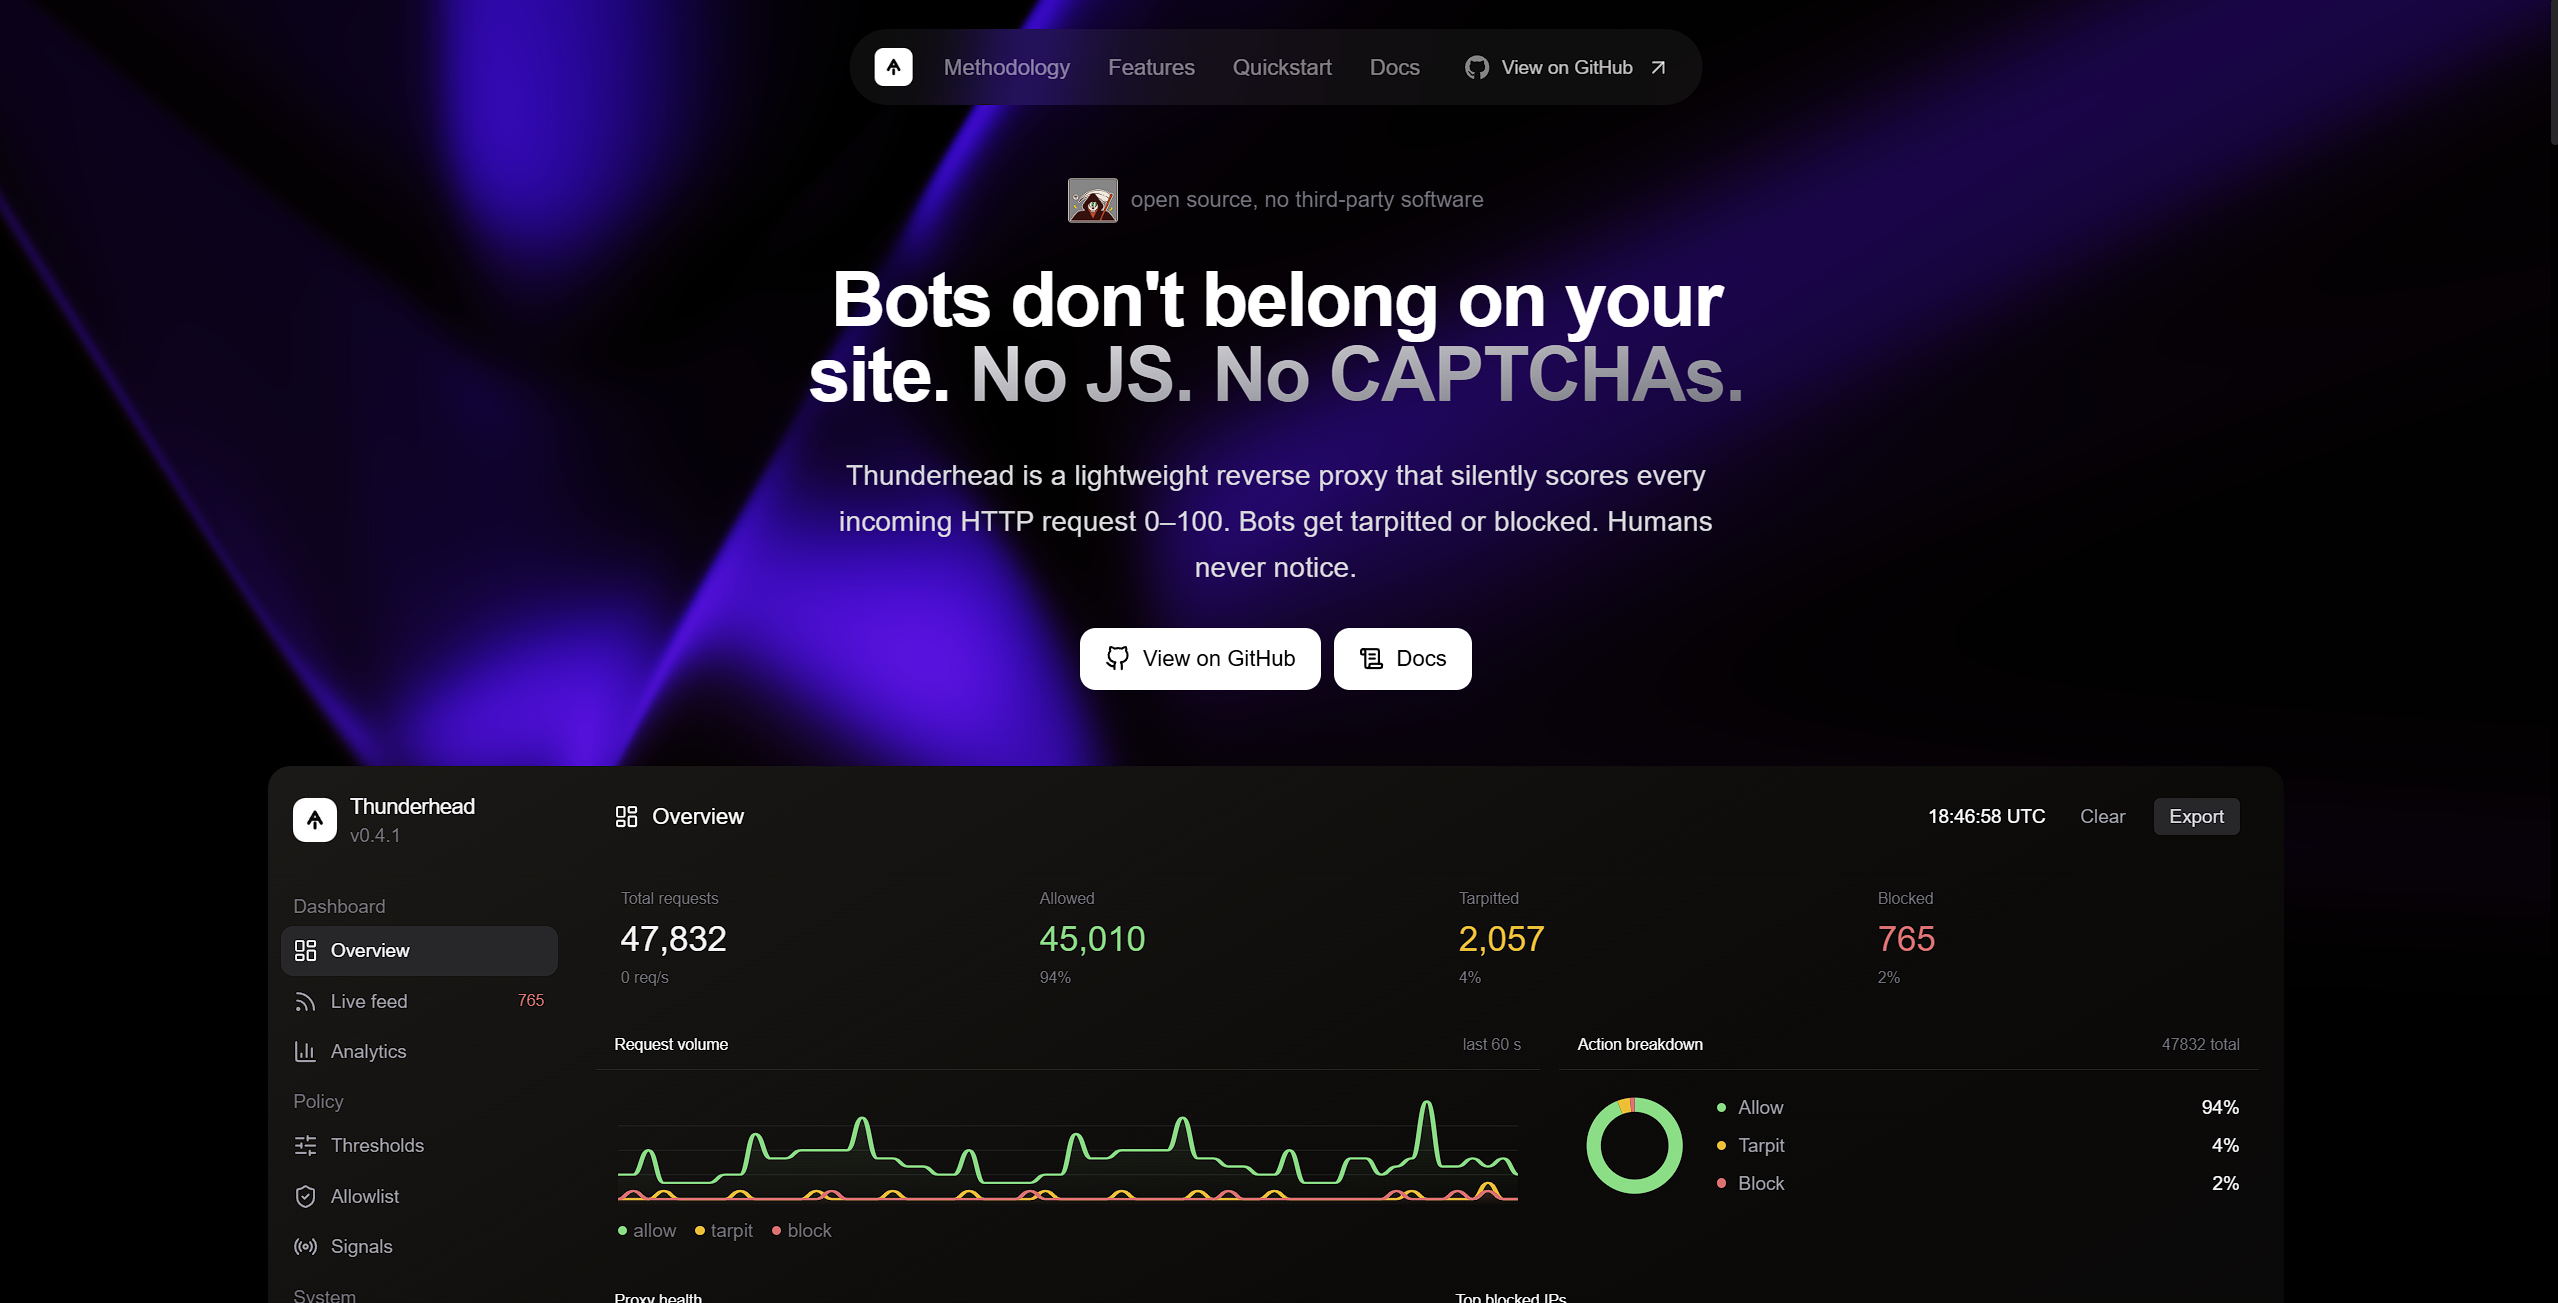
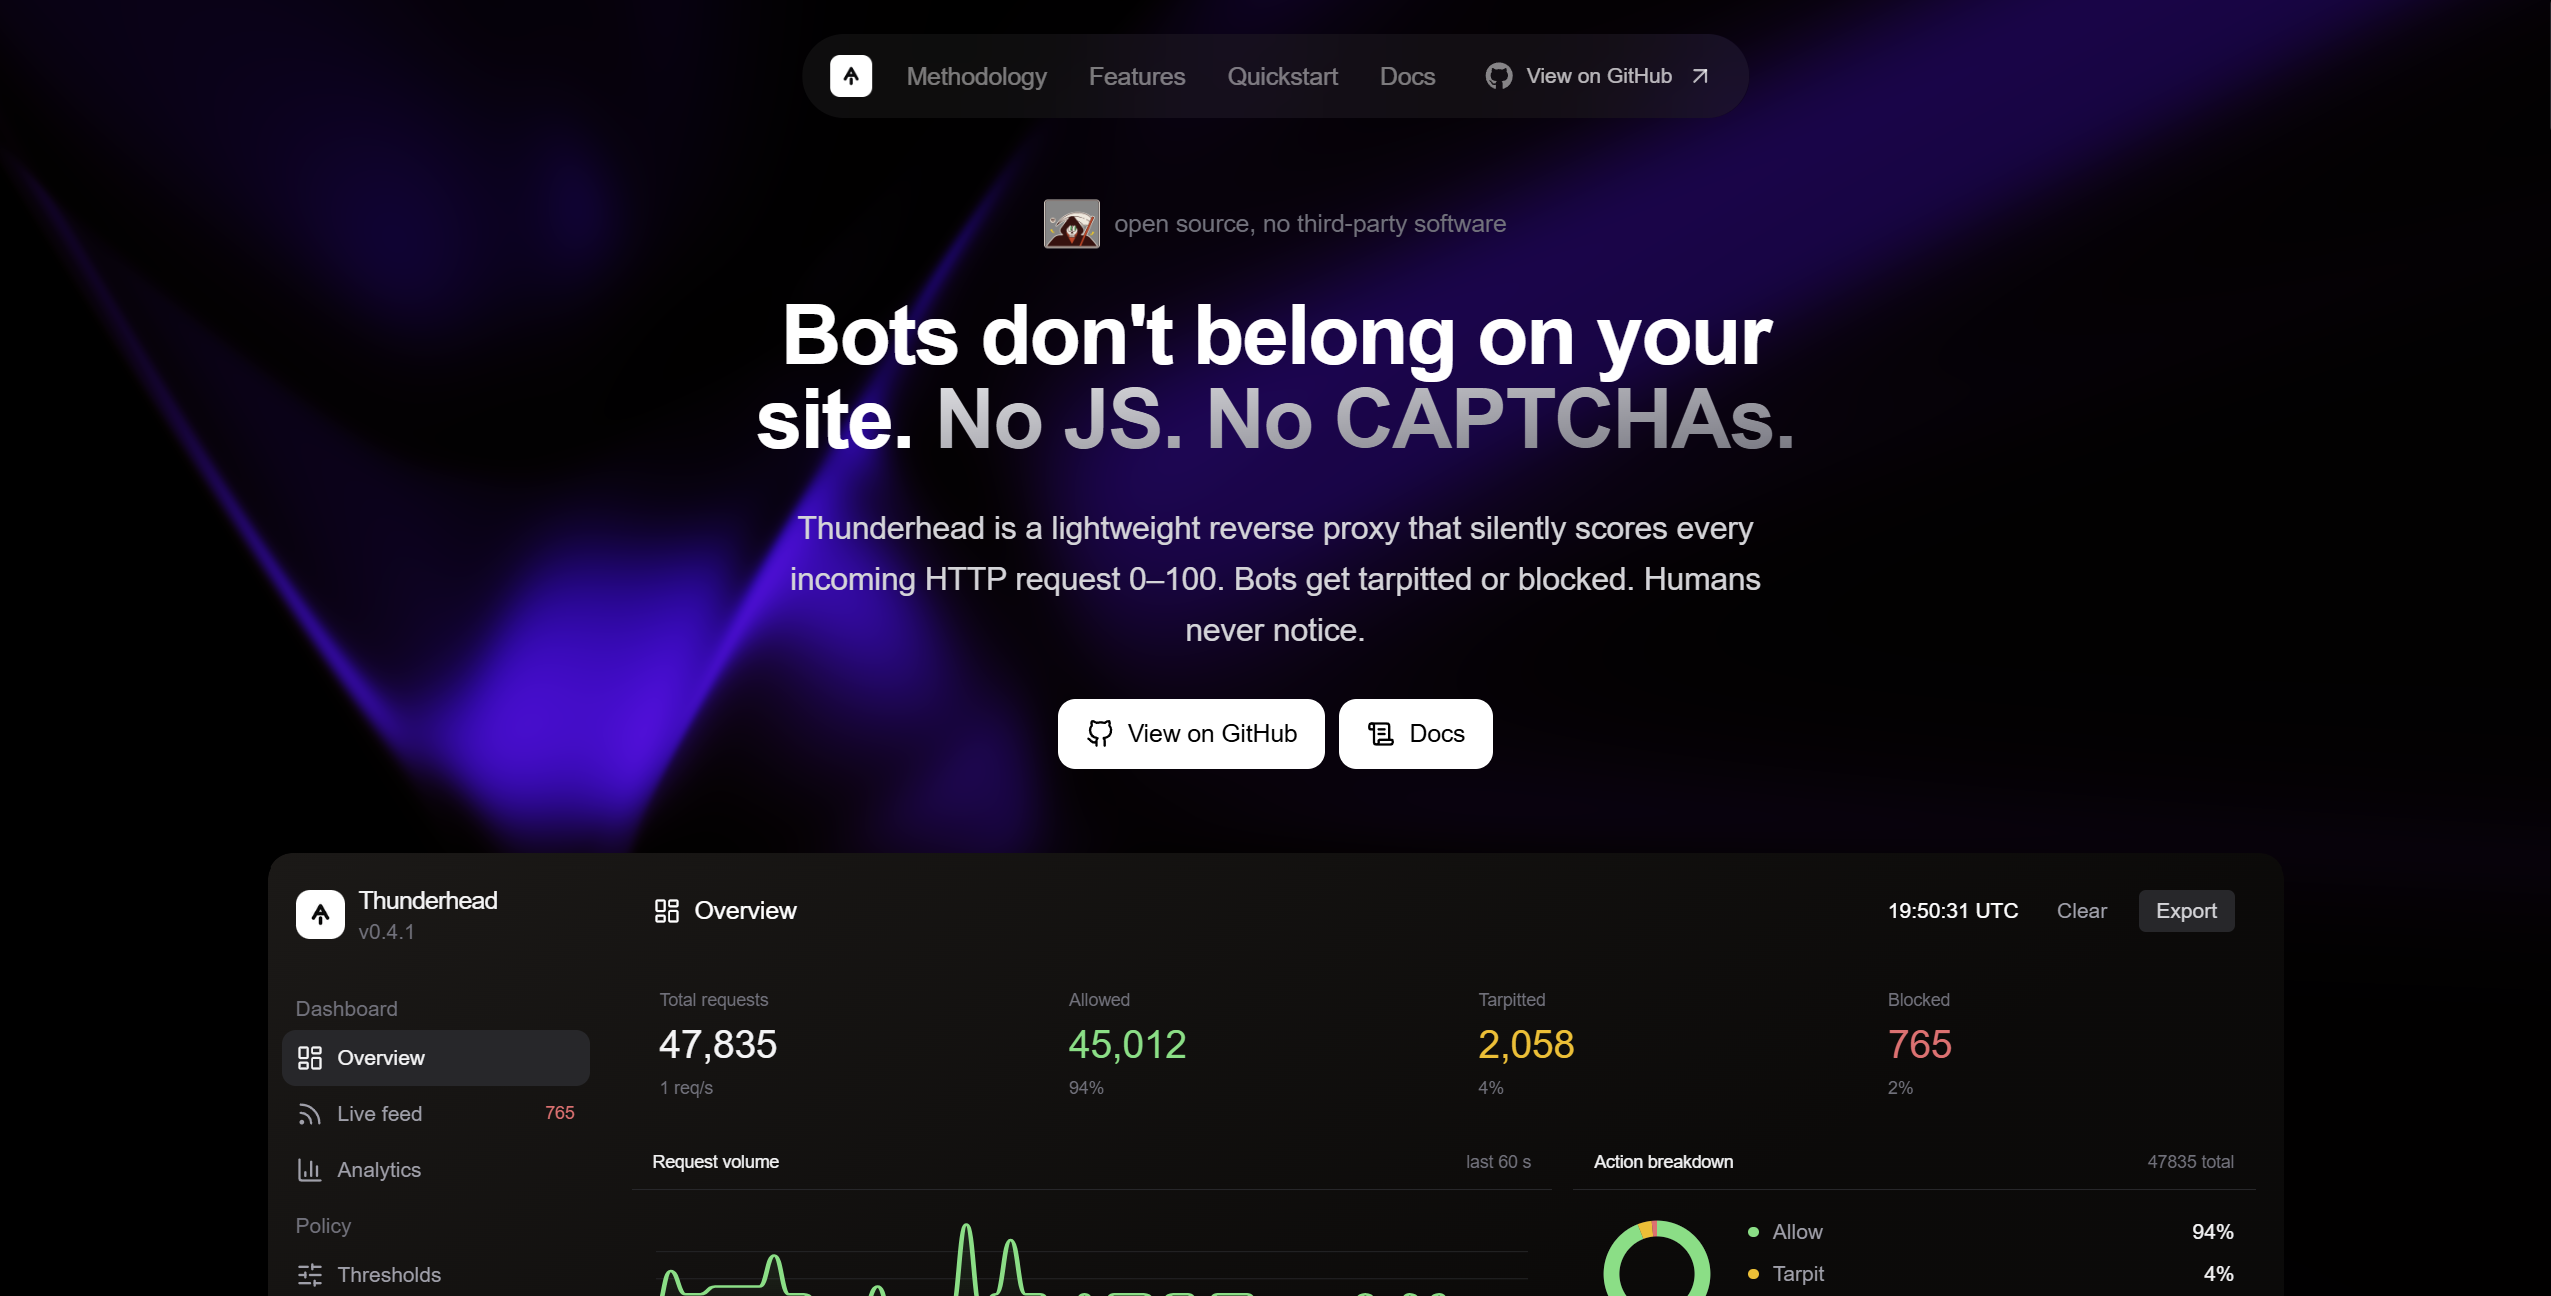
chore: update project thunderhead image && update project content

diff --git a/src/app/projects/data.tsx b/src/app/projects/data.tsx
@@ -99,7 +99,7 @@ export const projects: Project[] = [
 		live: "https://verrere.vercel.app/",
 		image: "/images/projects/verrere.png",
 		featured: true,
-		hasCaseStudy: true
+		hasCaseStudy: false
 	},
 	{
 		id: "funes",

diff --git a/src/content/projects/groat.md b/src/content/projects/groat.md
@@ -9,46 +9,4 @@ featured: true
 tech: ["Rust", "Tokio", "OpenAI-compatible APIs", "Vector databases", "Embeddings", "LLMs"]
 image: "/images/projects/groat.png"
 ---
-
-Groat is a self-hosted LLM proxy that reduces API costs through semantic response caching and intelligent model routing. It's a drop-in OpenAI-compatible endpoint — no changes to existing application code required. The name comes from the old English coin, worth very little on its own, but the whole point of a groat is that it counts.
-
-Unlike existing options, Groat is built around actually reducing spend rather than just reporting on it. LiteLLM requires hand-configured routing and only supports exact-match caching, which rarely fires on real traffic. Portkey is SaaS-first, meaning traffic has to leave your own infrastructure. Helicone tells you what you spent but doesn't help you spend less. Groat's wedge: self-hosted, zero required config, and an active attempt to cut costs rather than just observe them.
-
-## How it works
-
-Groat sits in front of LLM traffic and applies four cost-reduction levers, ordered from most trusted to least proven:
-
-- **Semantic caching** — incoming requests are embedded (bge-small-en-v1.5) and checked against LanceDB for a near-duplicate already in the cache. Above a 0.95 similarity threshold, the cached response is returned directly.
-- **Prompt cache injection** — stable system-prompt prefixes are detected automatically and a `cache_control` breakpoint is injected, capturing the 50–90% discount providers already offer on cached prefix tokens.
-- **User-defined routing** — a TOML config lets you pin your own use cases to your own model tiers, with savings tracked per route. Structured-output requests with a JSON schema are auto-routed to a cheaper model, since the schema itself constrains the output enough for a small model to hold up.
-- **Retroactive suggestions** — after enough logged traffic, Groat surfaces routing suggestions with estimated savings (e.g. "these 340 requests look like extraction tasks, routing to GPT-4o-mini would've saved $12.40"). Nothing is rerouted automatically; it only suggests.
-
-## Features
-
-- Drop-in OpenAI-compatible endpoint, zero required config
-- Semantic response caching via vector similarity (LanceDB)
-- Automatic prompt cache breakpoint injection
-- User-defined, TOML-based model tier routing
-- Auto-routing for schema-constrained structured outputs
-- Retroactive, opt-in routing suggestions based on traffic patterns
-- Fully self-hosted — traffic never leaves your infrastructure
-- Plain HTML dashboard baked into the binary, no frontend build step
-
-## Why I built it
-
-I was annoyed at the existing options for controlling LLM spend. Every proxy I looked at either made you hand-roll your own routing, sent traffic through someone else's servers, or just told you what you'd already spent without doing anything to reduce it. I wanted something self-hosted that actively tried to save money, ordered around how much trust I was willing to place in automated decisions — from safe, near-zero-risk levers like semantic caching, up to a suggestion engine that shows its work and asks permission rather than silently rerouting production traffic.
-
-## Architecture
-
-The project is a Rust workspace split into four crates:
-
-- `groat` — the binary: axum server, clap CLI
-- `groat-core` — pure logic, no I/O
-- `groat-providers` — one file per provider, behind a shared trait
-- `groat-storage` — SQLite via sqlx, plus LanceDB for vectors
-
-Requests currently flow end to end through Groat to a local Ollama instance running Llama 3.
-
-## What's next
-
-Two ideas are still being sketched out before implementation. **Conversation graph routing** would model conversations as a graph — nodes as requests, edges as parent-child relationships, with depth, branching factor, and accumulated context tokens as queryable properties in SQLite — routing follow-ups differently from root questions the way an OS scheduler treats a new process differently from a continuation. **Speculative prefetching** would fire a cheap speculative call the moment a request pattern reliably known to precede another arrives, strictly async and never on the critical path. Both depend on validating a simple-vs-complex direction vector in embedding space, sketched out as a next step before either gets built.
+work in progress

diff --git a/src/content/projects/funes.md b/src/content/projects/funes.md
@@ -10,90 +10,4 @@ tech: ["Rust", "Ollama", "SQLite"]
 image: "/images/projects/funes.png"
 ---
 
-funes is a local-first semantic search tool for your own machine. It runs quietly in the background, indexes your files, notes, and terminal history, and lets you find anything you've ever worked on by describing it in plain English — no exact filenames or keywords required.
-
-You fixed a Postgres deadlock bug three months ago. You remember roughly what the problem was, but not which file, which project, or what the fix looked like. That's the gap funes closes.
-
-## Why I built it
-
-I kept running into the same problem: the useful trace of my own work — a config that fixed a weird bug, a command I ran once and never wrote down, a note from a project I abandoned and picked back up months later — was scattered across files, shell history, and memory that fades fast. Grep only works if you remember the exact string. Cloud-based "second brain" tools solve part of this, but they mean sending your files and terminal history to someone else's servers, plus a subscription for something that's really just indexing your own machine.
-
-funes is built on the idea that this kind of memory should be local, private, and free of any account or subscription. It uses local embedding models via Ollama to understand what you're searching for semantically, so a vague, half-remembered description is enough — and nothing ever leaves your machine.
-
-The name comes from Jorge Luis Borges' 1942 short story *Funes the Memorious*, about a man who forgets nothing — every detail of his life perfectly preserved and instantly recallable. funes doesn't aim for literally perfect memory, just memory that's reliably there when you need it.
-
-## How it works
-
-funes watches your files and shell history, breaks them into chunks, and embeds each chunk with a local model. A query is embedded the same way, and funes retrieves the chunks closest in meaning — not just keyword matches, but results based on what you actually meant.
-
-```
-your files -> chunker -> embedder -> local database -> query -> answer
-```
-
-Everything — indexing, embedding, and querying — runs locally through Ollama. No API calls, no cloud storage, no account.
-
-## Use cases
-
-- **Recovering forgotten fixes** — recall the config change, command, or fix for a bug you solved once and can't find again
-- **Reconstructing context** — figure out what you were working on last week or last month across scattered files and terminal sessions
-- **Searching by vague memory** — find something when you remember the shape of it ("the nginx config that fixed the 502s") but not the exact name or location
-- **Working across projects without a shared notes system** — a single searchable memory layer over everything on your machine, regardless of which project or tool a file belongs to
-
-## Install
-
-**Requirements:** Rust, Ollama
-
-```bash
-# Pull the models funes needs
-ollama pull nomic-embed-text
-ollama pull llama3
-
-# Install funes
-cargo install funes
-```
-
-## Usage
-
-```bash
-funes start                    # Start the background daemon
-funes add ~/notes              # Manually index a folder
-funes watch ~/projects         # Watch a folder for changes
-funes query "something you remember vaguely"
-funes query "..." --llm        # Get a plain English answer instead of raw results
-funes status                   # See what's indexed
-funes forget "*.env"           # Exclude sensitive files
-```
-
-## Design philosophy
-
-- **Local-first** — your data never leaves your machine
-- **No accounts, no subscriptions** — install it and it's yours
-- **Semantic, not keyword-based** — built to work with a vague memory, not an exact search term
-- **Quiet by default** — indexes in the background without getting in the way
-
-## Roadmap
-
-### Shipped
-
-- CLI skeleton
-- Ollama embeddings
-- SQLite / vector storage
-- File watcher
-- Shell history indexing
-- Query with results
-- LLM synthesis mode (`--llm`)
-
-### Planned
-
-- Packaging via `cargo install funes-memory`
-- Homebrew packaging
-- True background daemon process
-- Documentation site
-
-## License
-
-MIT License
-
-## Contributing
-
-Contributions are welcome, particularly around the roadmap above. See `CONTRIBUTING.md` for details.
+work in progress

diff --git a/src/content/projects/thunderhead.md b/src/content/projects/thunderhead.md
@@ -10,47 +10,8 @@ tech: ["Go", "net/http", "httputil.ReverseProxy", "Bubbletea", "Lipgloss", "Next
 image: "/images/projects/thunderhead.png"
 ---
 
-Thunderhead is a self-hosted reverse proxy that detects and mitigates bot traffic through passive behavioral analysis — no Cloudflare, no JS challenges, no CAPTCHAs. Inspired by Anubis, it takes a different approach: instead of blocking non-browser clients with a proof-of-work challenge, it scores every request inline and responds proportionally, which makes it effective for APIs and headless traffic that JS challenges can't reach.
+![Thunderhead dashboard](/images/content/projects/thunderhead_dashboard.png)
 
-## How it works
+*A self-hosted reverse proxy that quietly detects and mitigates bot traffic through passive behavioral analysis.*
 
-Every request is scored 0–100 across five weighted behavioral signals — robots.txt violations, sequential path crawling, high request rate, suspicious or missing headers, and text-heavy page patterns. Scoring happens inline with zero added latency for legitimate traffic, and every decision is logged as structured JSON for full observability.
-
-Requests are handled with a graduated response:
-
-- **< 40** — Allow, pass through
-- **≥ 40** — Tarpit, delayed response
-- **≥ 75** — Block, 403 Forbidden
-
-## Features
-
-- Passive bot detection with zero user friction
-- Intent scoring across 5 behavioral signals
-- Graduated responses: allow → tarpit → block
-- Real-time terminal dashboard built with Bubbletea (TUI)
-- Web-based status dashboard at `/thunderhead/status`
-- IP, CIDR, and user-agent allowlist/blocklist
-- Robots.txt awareness and persistent client state across restarts
-- Config hot reload, HTTPS/TLS support
-- Embeddable Go middleware (`pkg/middleware`) for use in other projects
-- Docker support with a full docker-compose setup
-
-## Why I built it
-
-I wanted to explore an alternative to challenge-based bot mitigation (like Cloudflare or Anubis-style JS challenges), which breaks down for API traffic and headless clients that can't execute JavaScript. Thunderhead instead treats bot detection as a passive, explainable scoring problem — every request gets scored on real behavioral signals and every decision is traceable, without adding latency or friction for legitimate users.
-
-## Architecture
-
-The project is organized as a Go backend with a Next.js landing page:
-
-- `cmd/thunderhead` — headless proxy binary
-- `cmd/tui` — terminal dashboard binary
-- `internal/analyzer` — the intent scoring engine
-- `internal/proxy` — request handling, tarpit, block, and dashboard logic
-- `internal/store` — persistent client state
-- `pkg/middleware` — embeddable middleware for other Go projects
-- `web/` — Next.js landing page
-
-## What's next
-
-Planned work includes a REST API layer, a standalone Next.js dashboard, a JS-challenge fallback mode, CIDR/subnet-based rate limiting, a systemd service file, and Goreleaser binary releases.
+work in progress
